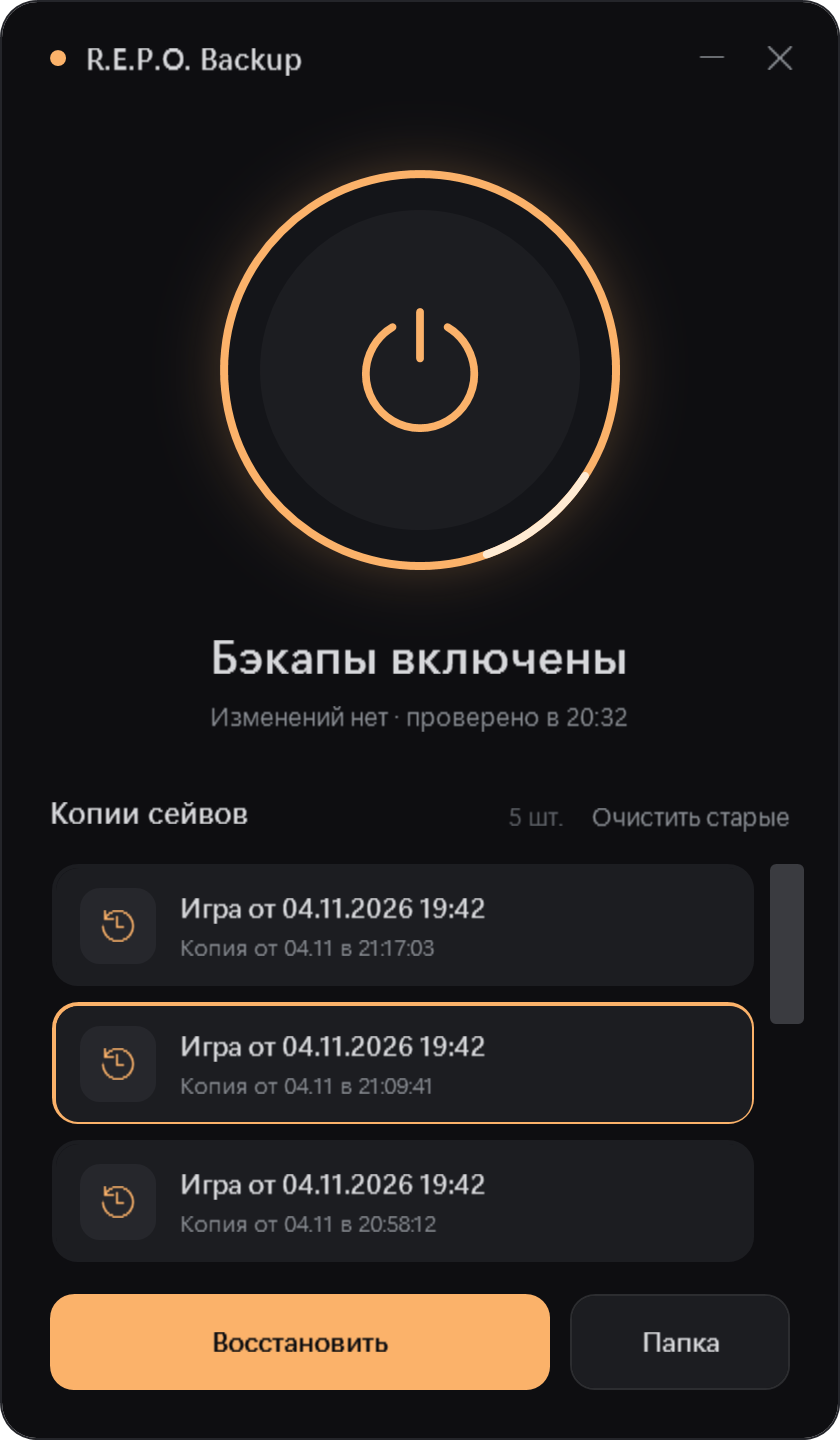
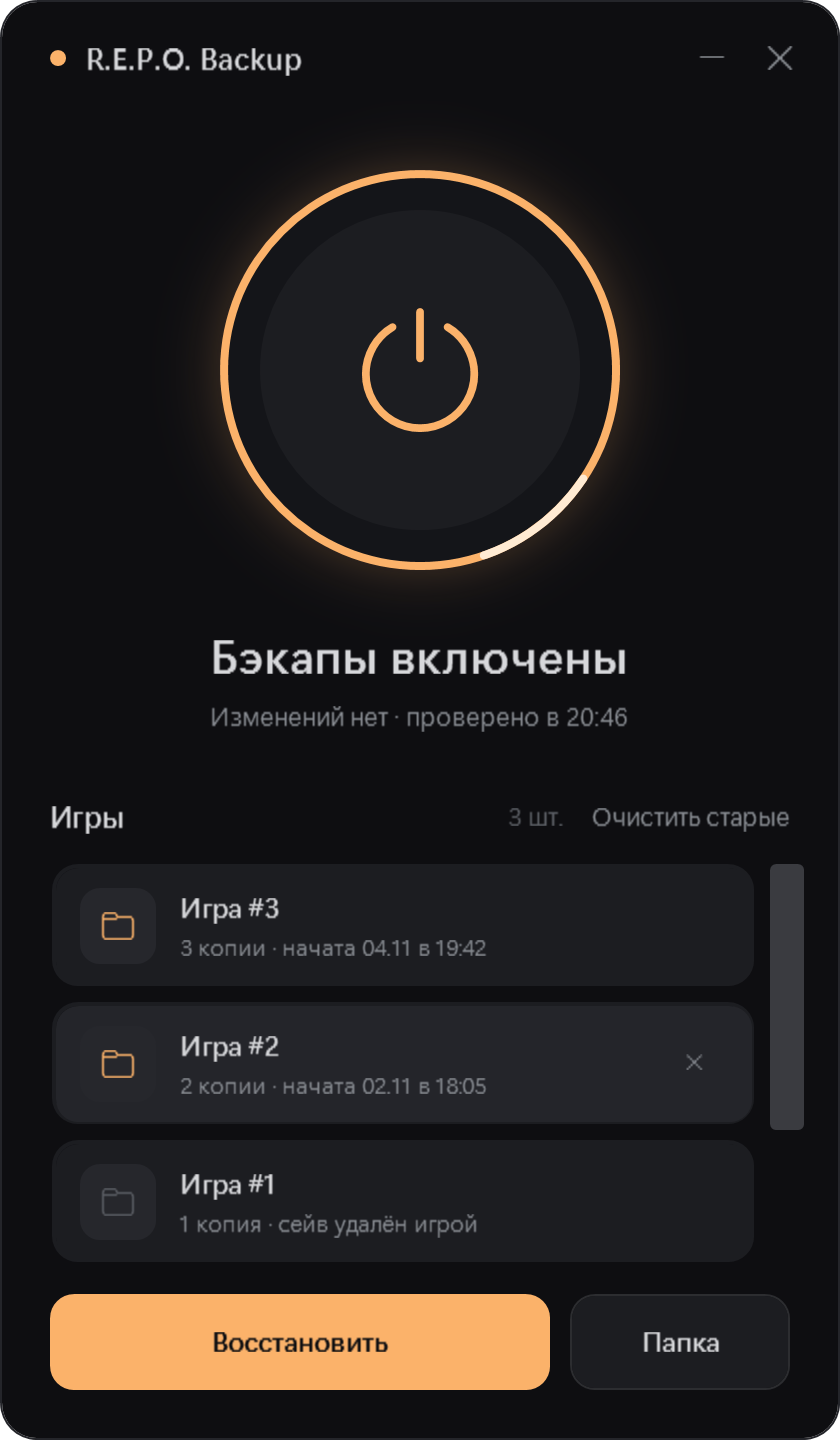
Папки игр и предупреждение о гибели команды
- Список разбит по играм: главный экран показывает «Игра #N» (по папке
  сейва), внутри — копии этой игры; кнопка «назад», удаление игры целиком
- Раз в 3 секунды проверяется, не удалила ли игра сейв (вайп команды).
  Если удалила — уведомление Windows и диалог «Восстановить последнюю
  копию?». Пока игра запущена, восстановление откладывается до её выхода
- Восстановление вынесено в общую функцию Restore-Copy/Start-Restore

diff --git a/README.md b/README.md
@@ -10,6 +10,8 @@
 
 - Круглая кнопка включения: пока бэкапы включены, сейвы проверяются **каждую минуту**, новая копия делается только если сейв изменился
 - Хранится до **30 последних копий** на каждую игру, старые удаляются сами
+- **Каждая игра в своей папке.** Начал новую игру в R.E.P.O., и в списке появилась «Игра #N». Внутри — копии именно этой игры. Погибшие игры помечаются «сейв удалён игрой»
+- **Предупреждение о гибели команды.** Если игра удалила сейв, всплывает уведомление и предложение восстановить последнюю копию. Если R.E.P.O. ещё запущена, сейв восстановится сам, как только ты выйдешь из игры
 - Восстановление выбранной копии (с проверкой, что игра закрыта). Перед восстановлением текущий сейв сам сохраняется в список, так что откат можно отменить
 - Если копирование не удалось (например, файл занят игрой), в окне появится предупреждение, а через минуту будет новая попытка
 - Удаление отдельных копий и кнопка «Очистить старые» (оставляет по одной свежей копии на игру)
